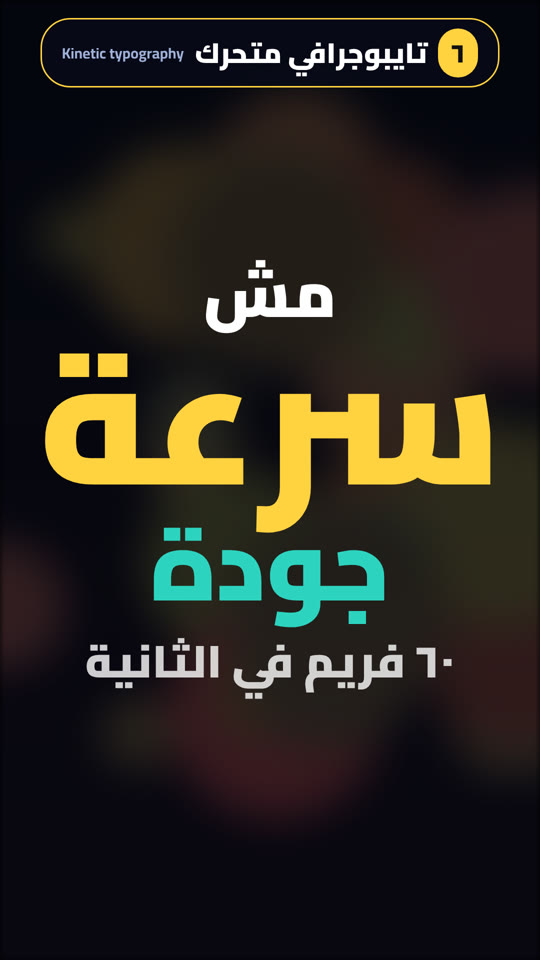
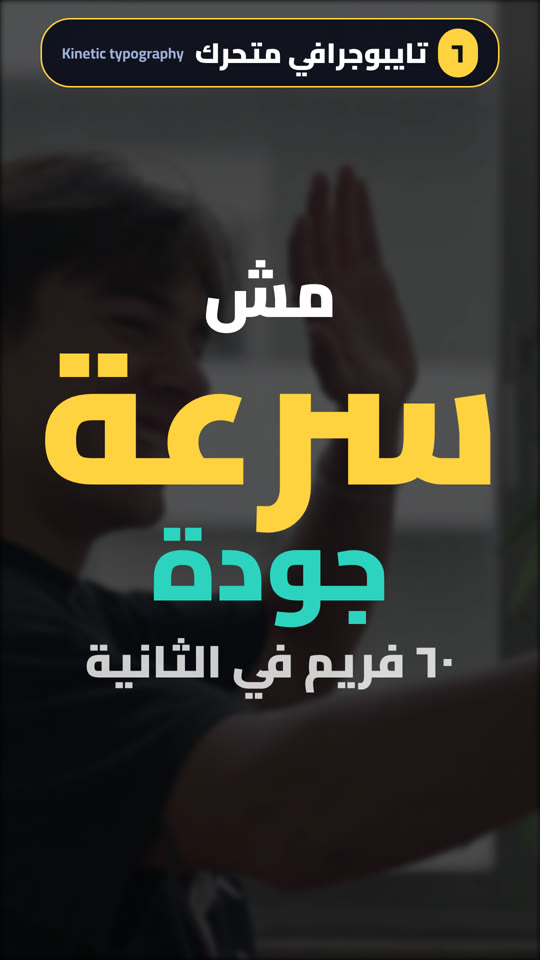
Style gallery rebuilt on stock people stills, style guide + split screen rules, ad length fix

diff --git a/template/src/styleboard/StyleFrame.tsx b/template/src/styleboard/StyleFrame.tsx
@@ -36,7 +36,7 @@ const V: Record<string, () => React.ReactElement> = {
     <Words size={104} y={1150} items={[{t: 'جودة'}, {t: 'مش', c: '#111', bg: '#FFD23F', s: 1.08}, {t: 'سرعة'}]} /></>),
   '4': () => (<><Bg src={host} style={{filter: 'sepia(0.28) contrast(1.12) saturate(0.85) brightness(0.92)', transform: 'scale(1.08)'}} /><Vignette strength={0.6} /><Grain opacity={0.12} />
     <div style={{position: 'absolute', left: 0, right: 0, top: 0, height: 330, background: '#000'}} /><div style={{position: 'absolute', left: 0, right: 0, bottom: 0, height: 330, background: '#000'}} />
-    <div style={{position: 'absolute', left: 70, bottom: 480, borderLeft: '8px solid #F5C451', paddingLeft: 28, ...F, direction: 'rtl', borderRight: 'none'}}><div style={{color: '#fff', fontWeight: 900, fontSize: 60}}>مخرج ريلز</div><div style={{color: '#F5C451', fontWeight: 700, fontSize: 38}}>استوديو سيحا</div></div>
+    <div style={{position: 'absolute', left: 70, bottom: 480, borderLeft: '8px solid #F5C451', paddingLeft: 28, ...F, direction: 'rtl', borderRight: 'none'}}><div style={{color: '#fff', fontWeight: 900, fontSize: 60}}>مخرج ريلز</div><div style={{color: '#F5C451', fontWeight: 700, fontSize: 38}}>استوديو الريلز</div></div>
     <div style={{position: 'absolute', left: 80, right: 80, bottom: 150, textAlign: 'center', color: '#fff', ...F, fontWeight: 700, fontSize: 50, textShadow: '0 2px 12px #000'}}>ريل بريميوم في أمر واحد</div></>),
   '5': () => (<AbsoluteFill style={{background: 'linear-gradient(180deg,#0b1020,#151c3a)'}}>
     <div style={{position: 'absolute', left: 40, right: 40, top: 150, height: 1000, borderRadius: 44, overflow: 'hidden', boxShadow: '0 20px 60px rgba(0,0,0,.6)'}}><Bg style={{objectPosition: '50% 20%'}} /></div>

diff --git a/template/src/Root.tsx b/template/src/Root.tsx
@@ -29,7 +29,7 @@ export const Root: React.FC = () => (
     <Composition id="Montage30" component={Montage} durationInFrames={Math.round(edlSeconds(sampleEdl as any) * 30)} fps={30} width={1080} height={1920}
       defaultProps={{edl: sampleEdl} as MontageProps}
       calculateMetadata={({props}) => ({durationInFrames: Math.max(1, Math.round(edlSeconds(props.edl) * 30))})} />
-    <Composition id="Ad" component={Ad as any} durationInFrames={1440} fps={30} width={1080} height={1920} defaultProps={{beats: [], captions: [], audio: "", total: 48} as any} />
+    <Composition id="Ad" component={Ad as any} durationInFrames={1863} fps={30} width={1080} height={1920} defaultProps={{beats: [], captions: [], audio: "", total: 48} as any} />
     <Composition id="Explainer" component={Explainer as any} durationInFrames={750} fps={30} width={1080} height={1920} defaultProps={{beats: [], captions: [], audio: "", total: 25} as any} />
     <Composition id="StyleFrame" component={StyleFrame} durationInFrames={1} fps={FPS} width={1080} height={1920} defaultProps={{id: '1'}} />
     <Composition id="StyleCard3D" component={StyleCard3D} durationInFrames={1} fps={FPS} width={1080} height={1920} />

diff --git a/docs/STYLES.md b/docs/STYLES.md
@@ -19,3 +19,32 @@ Pacing rules: cut pauses >0.35s, vary punch-ins, a strong punch at most once per
 - Text behind subject: youtube.com/watch?v=FpPG_F72i9E
 - Cinematic grade (teal-orange): youtube.com/watch?v=7n_uLntNZuY
 - Written specs: vidpal.ai/blog/how-to-make-hormozi-style-captions-2026, capto.video/blog/hormozi-style-captions-how-to-get-the-look, viewgum.com/guides/edit-a-talking-head-for-shorts
+
+
+## Style guide: how to pick and use each style
+Pick by what the viewer needs to do in the first 2 seconds. One style per reel; use the cinematic grade or the progress bar on top if you want.
+
+| # | Style | Use it for | Rules that make it work | How |
+|---|---|---|---|---|
+| 1 | Hormozi captions | Talking head, advice, how-to | 1 to 3 words on screen, heavy Cairo 900, black stroke, one accent word, mid-chest | `captionStyle: 'punch'`, StyleFrame `1` |
+| 2 | MrBeast pop | Hooks, big claims, reactions | Huge bouncy words, sticker or arrow pointing at the subject, high saturation | `BeastCaptions`, StyleFrame `2` |
+| 3 | Karaoke highlight | Voiceover over b-roll, songs, steady speech | The spoken word lights up, the rest stays white | StyleFrame `3` |
+| 4 | Documentary lower third | Interviews, expert intros | Name and role in a lower third, slight desaturation, letterbox | StyleFrame `4` |
+| 5 | Podcast clip | Cutting a long talk into a short | Video card, title, waveform, progress bar | StyleFrame `5` |
+| 6 | Kinetic typography | Voiceover with no footage, key phrases | Words as the visual, one idea per screen, size shows importance | StyleFrame `6` |
+| 7 | Split screen | Before/after, comparisons, reactions, story over gameplay | See the split screen rules below | StyleFrame `7` |
+| 8 | Hook + progress bar | Any reel that needs to hold to the end | A question in the first 2 seconds, a bar that fills until the payoff | StyleFrame `8` |
+| 9 | 3D callouts | Numbers, headlines, chips on top of footage | Callouts in the top band, never over the face | `Broll3D` |
+| 10 | Cinematic grade | Brand and mood pieces | Teal-orange grade, vignette, grain; `grade: 'cinematic'` in Montage | StyleFrame `10` |
+
+Text behind subject is a Montage feature, not a StyleFrame: cut the person out with `scripts/subject_matte.py` and use the clip field `behind`.
+
+### Split screen rules (use on request)
+- Vertical reels use top and bottom, not side by side (1080x1920 canvas). Unequal splits such as 60/40 work when one clip is the focus.
+- Split screen is a format choice, not a growth trick. Use it only when the second clip adds information or keeps the eye moving.
+- Pick one audio source, and keep captions out of the platform UI areas (top bar and the bottom 20%).
+- Typical pairings: before/after, two products or techniques, reaction, narrated story over continuous footage.
+- References: https://autoshort.io/blog/split-screen-video-shorts-reels , https://www.solidlabs.com/ad-patterns/editing/stacked-split-screen , https://reelstck.com/layouts , https://apollovid.com/templates
+
+### Pacing rules for every style
+Cut pauses longer than 0.35s. Vary the punch-in. At most one strong punch per 10 seconds. Put SFX 1 to 3 frames before the sound. The speech must finish before the cut, and the QA gate and `npm run preflight` check for it.

diff --git a/README.md b/README.md
@@ -115,7 +115,7 @@
 | **Style pack** | 10 style looks (`StyleFrame` composition, id 1..10): Hormozi, MrBeast, karaoke, documentary, podcast clip, kinetic typography, split screen (on request), hook + progress bar, 3D callouts, cinematic grade | `template/src/styleboard/`, `docs/STYLES.md` |
 | **Progress bar, varied punch-ins, SFX placement** | retention elements from the pro talking-head style guide | `Montage.tsx`, `docs/STYLES.md` |
 
-Notes: the style images above are in-studio renders of each look on a generated background (our own material, no third-party footage; not screenshots of real creators). External reference sources for each style are listed in `docs/STYLES.md`. Delivery is 30fps for the 3D-heavy montage composition.
+Notes: the style images above are in-studio renders of each look on free stock stills from Coverr (free for commercial use, no attribution needed; not screenshots of real creators). External reference sources for each style are listed in `docs/STYLES.md`. Delivery is 30fps for the 3D-heavy montage composition.
 
 ---
 

diff --git a/ATTRIBUTION.md b/ATTRIBUTION.md
@@ -44,3 +44,5 @@ Tajawal (https://github.com/google/fonts/tree/main/ofl/tajawal) — SIL Open Fon
 Clips fetched by `template/scripts/broll-fetch.mjs` carry their source's license,
 written per clip into the manifest: Coverr (coverr.co/license), Mixkit
 (mixkit.co/license), Pexels (pexels.com/license), Pixabay (pixabay.com/service/license-summary/).
+
+The style gallery images (`docs/img/styles/`) use two Coverr stock stills (`template/public/styles-bg/bg_c.jpg`, `bg_d.jpg`) as backgrounds. The people shown are stock footage, not anyone connected to this project.
